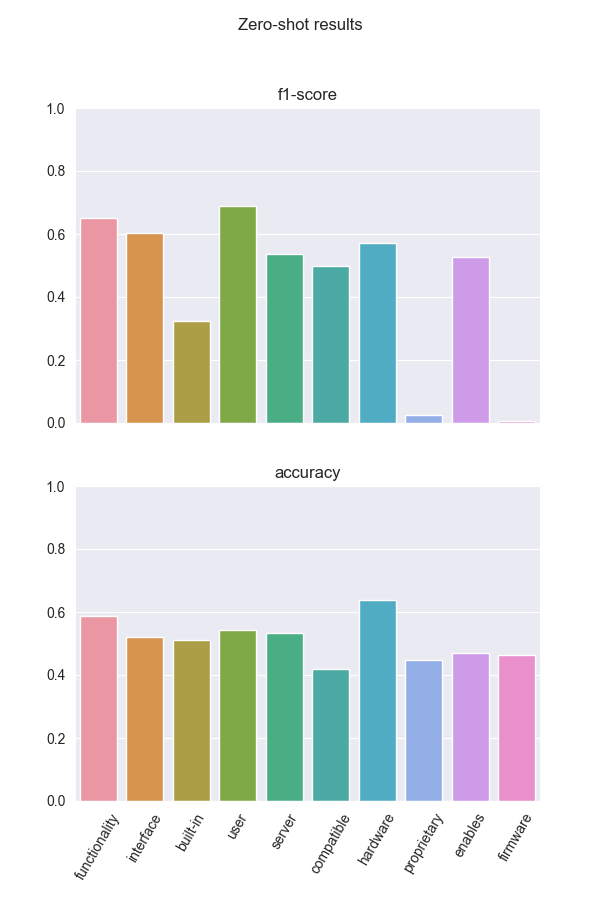
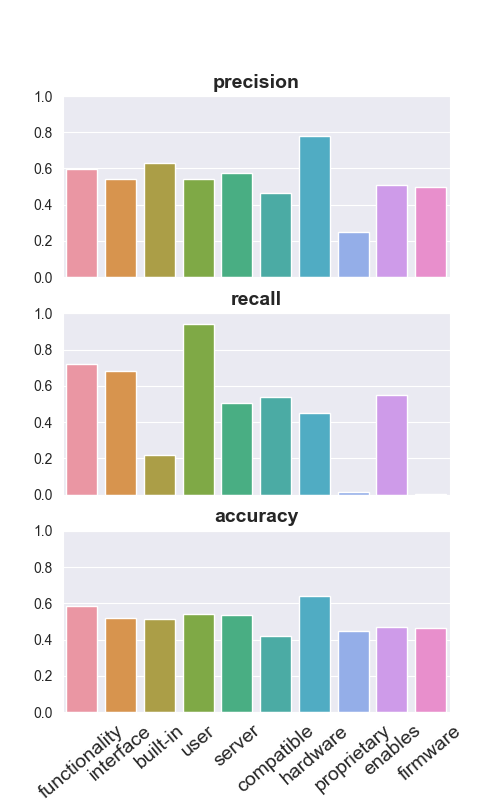
make figures from zero shot readable

diff --git a/src/visualisation/zero_shot.py b/src/visualisation/zero_shot.py
@@ -22,16 +22,15 @@ def visualise_per_class_performance(
       print(labels)
     else:
       labels = config.class_names
-    fig, axes = plt.subplots(len(metrics),1, figsize=(6, 9))
+    fig, axes = plt.subplots(len(metrics),1, figsize=(5, 9))
     for metric, ax in zip(metrics, axes.flatten()):
       metric_results = []
       for label in labels:
         # label = label.replace(' ', '_') # range anxiety => range_anxiety.
         metric_results.append(results[label][metric])
 
-      # plt.figure()
-      ax.set_title(f'{metric}')
-      # plt.xlabel(metric)
+      ax.set_title(f'{metric}', {'fontweight': "bold"})
+      ax.title.set_size(14)
       ax = sns.barplot(x=labels, y=metric_results, ax=ax)
       ax.set_xticklabels([])
       ax.set_ylim([0,1])
@@ -51,7 +50,9 @@ def visualise_per_class_performance(
     print('\hline\hline')
     print(f'sum & {clicks_preannotation} & {clicks_no_preannotation}')
 
+    plt.xticks(fontsize=14)
     ax.set_xticklabels(labels)
-    ax.tick_params(axis='x', rotation=60)
-    plt.suptitle('Zero-shot results')
+    ax.tick_params(axis='x', rotation=40)
+    title = filename.replace('_', ' ')
+    plt.suptitle(f'Zero-shot results', fontsize=14, fontweight='bold')
     plt.savefig(os.path.join(config.results_dir, FIGURES_DIR, f'all_metrics_{filename}.png'))
